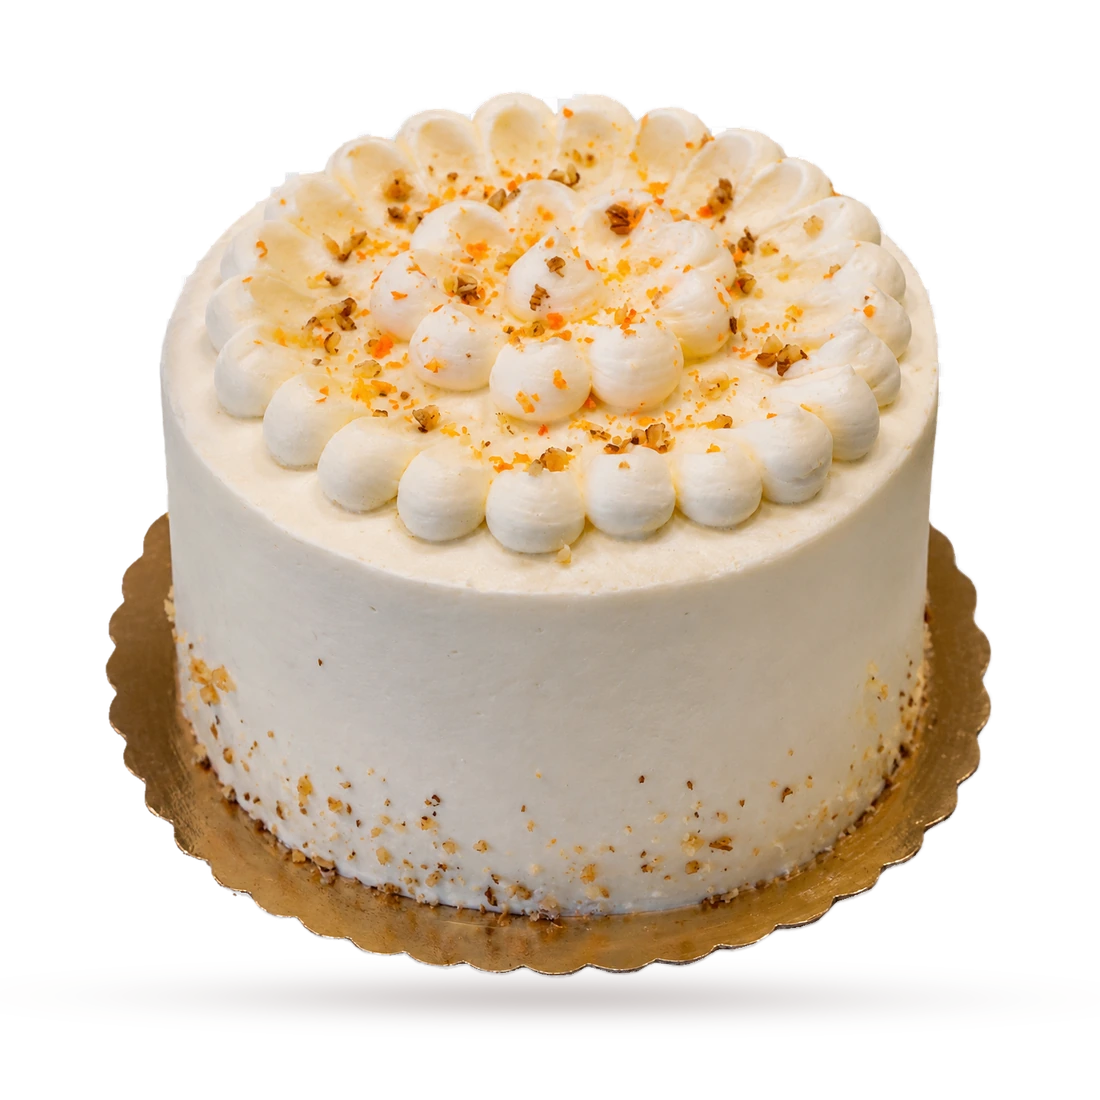
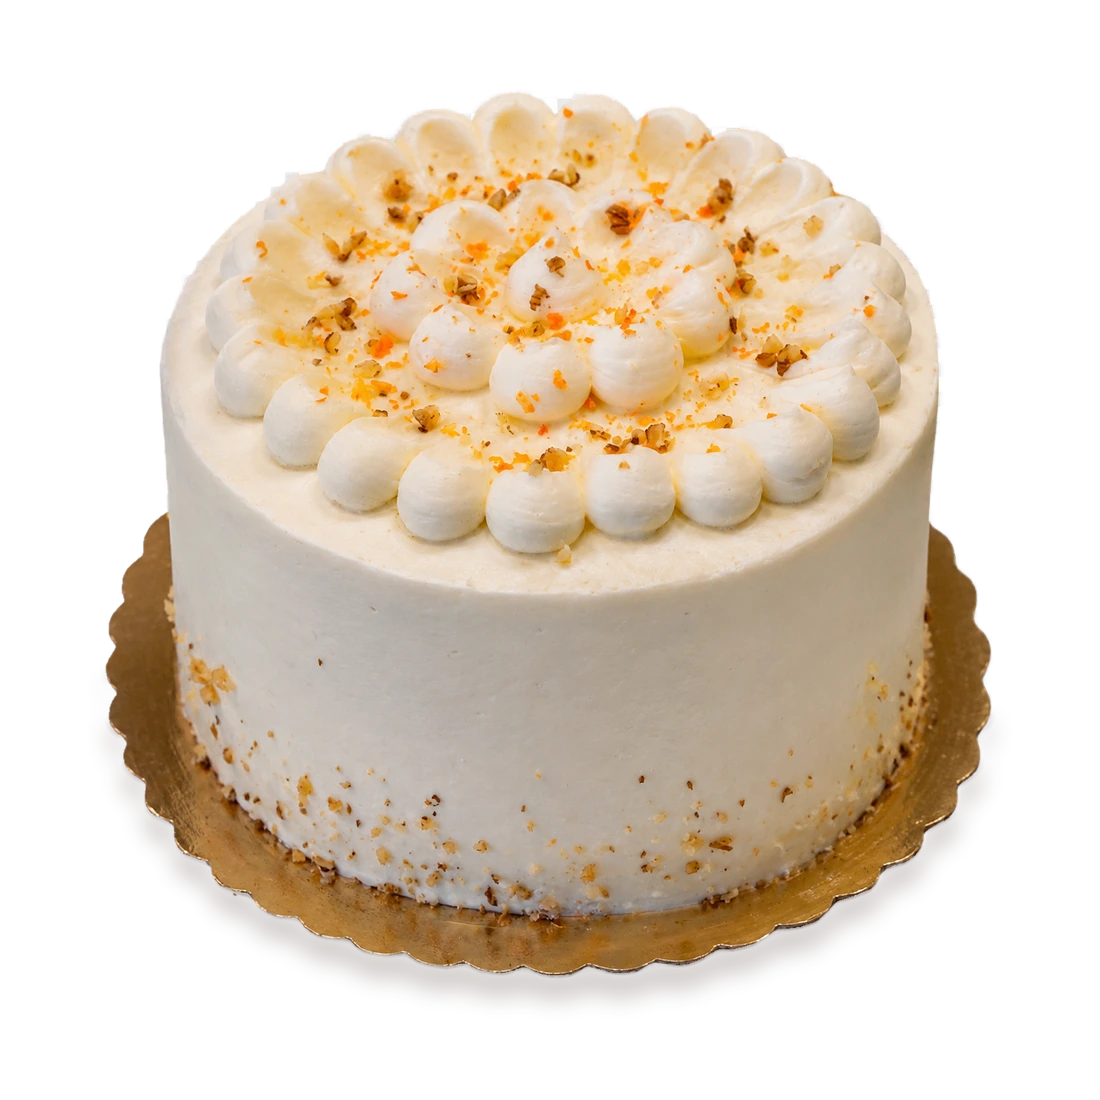
Pasteles: sombra pegada a la base en Carrot, Vanilla Raspberry, Gender Reveal y Oreo Mousse

Changed region(s): [[0.1545, 0.7418, 0.8655, 0.9273], [0.8655, 0.7109, 0.8964, 0.7418], [0.1236, 0.7418, 0.1545, 0.7727]]

diff --git a/index.html b/index.html
@@ -365,7 +365,7 @@ const PHOTOS={choc_strawberries:1,raspberry_cream_puff:2,strawberry_cream_puff:2
 P.forEach(p => { if (SEASONAL[p.id]) p.seasonal = true; if (PHOTOS[p.id]){ p.photo = true; p.views = PHOTOS[p.id]; } });
 
 
-const BUILD = '202611092007';
+const BUILD = '202611092214';
 let lang = 'es', cat = 'cupcakes', tag = null, current = -1, view = 'out', list = [];
 try { const s = JSON.parse(localStorage.getItem('ytb-cat') || '{}'); if (s.lang) lang = s.lang; } catch(e) {}
 const $ = id => document.getElementById(id);
